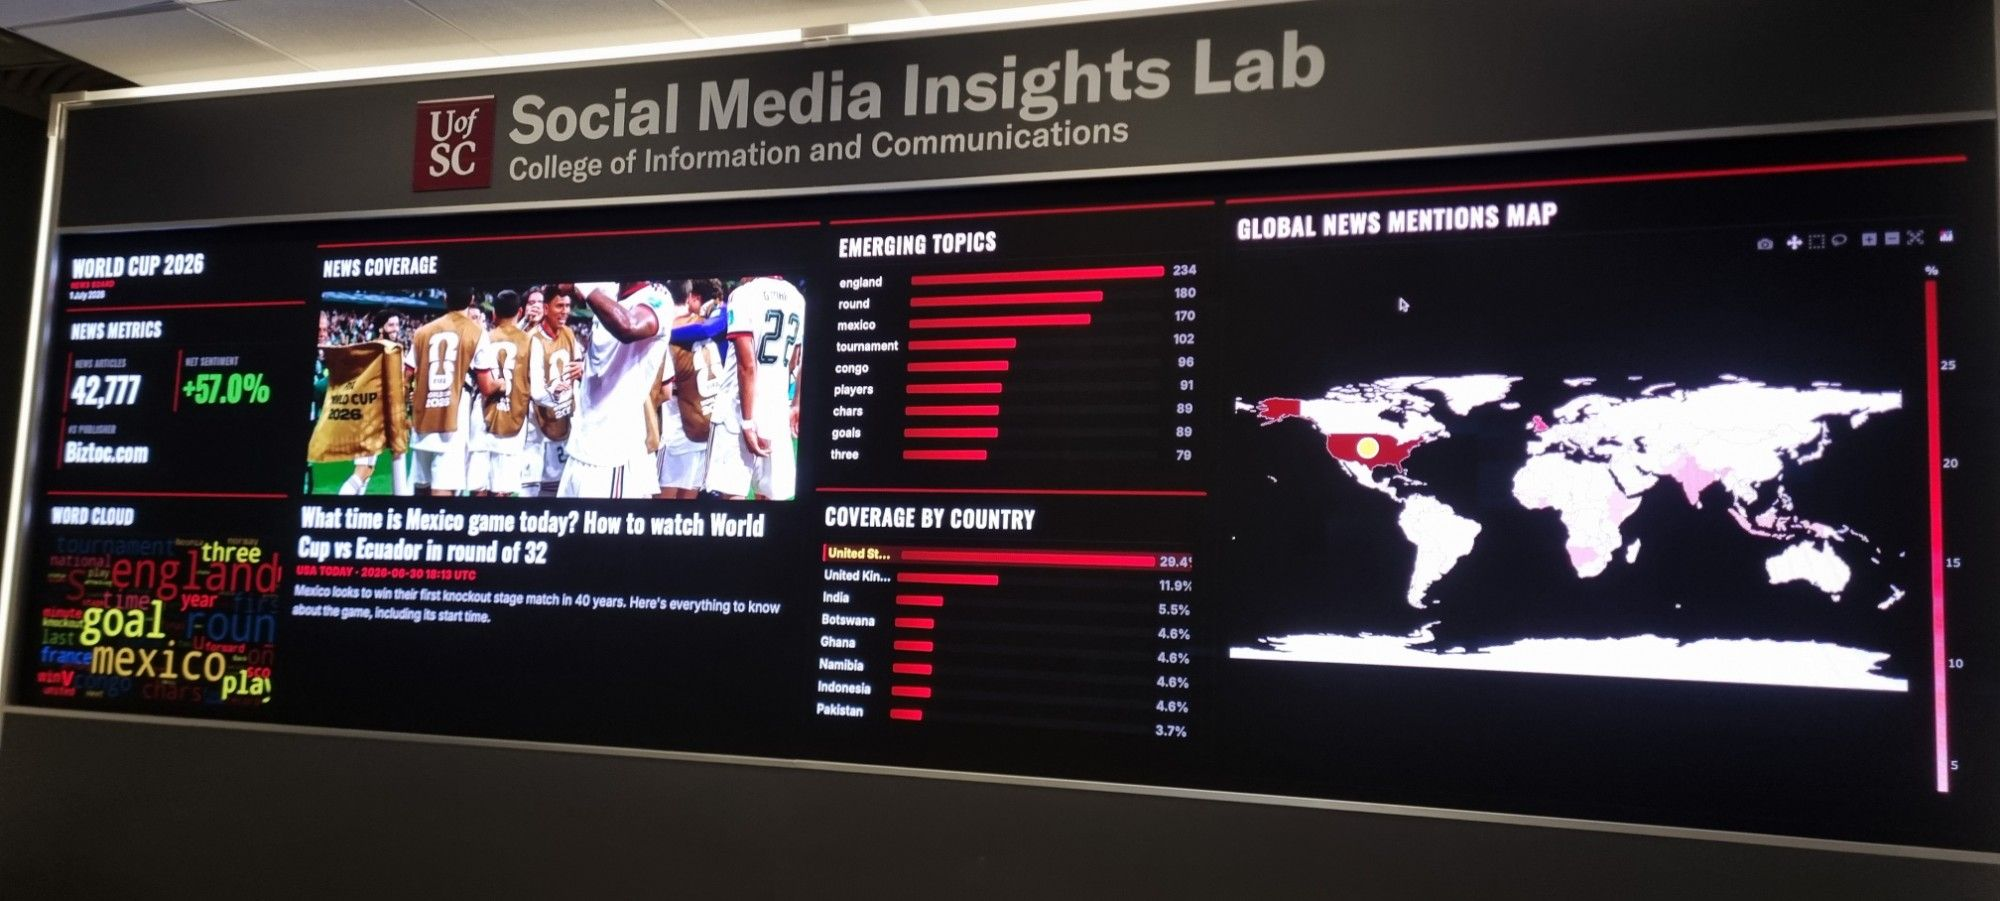
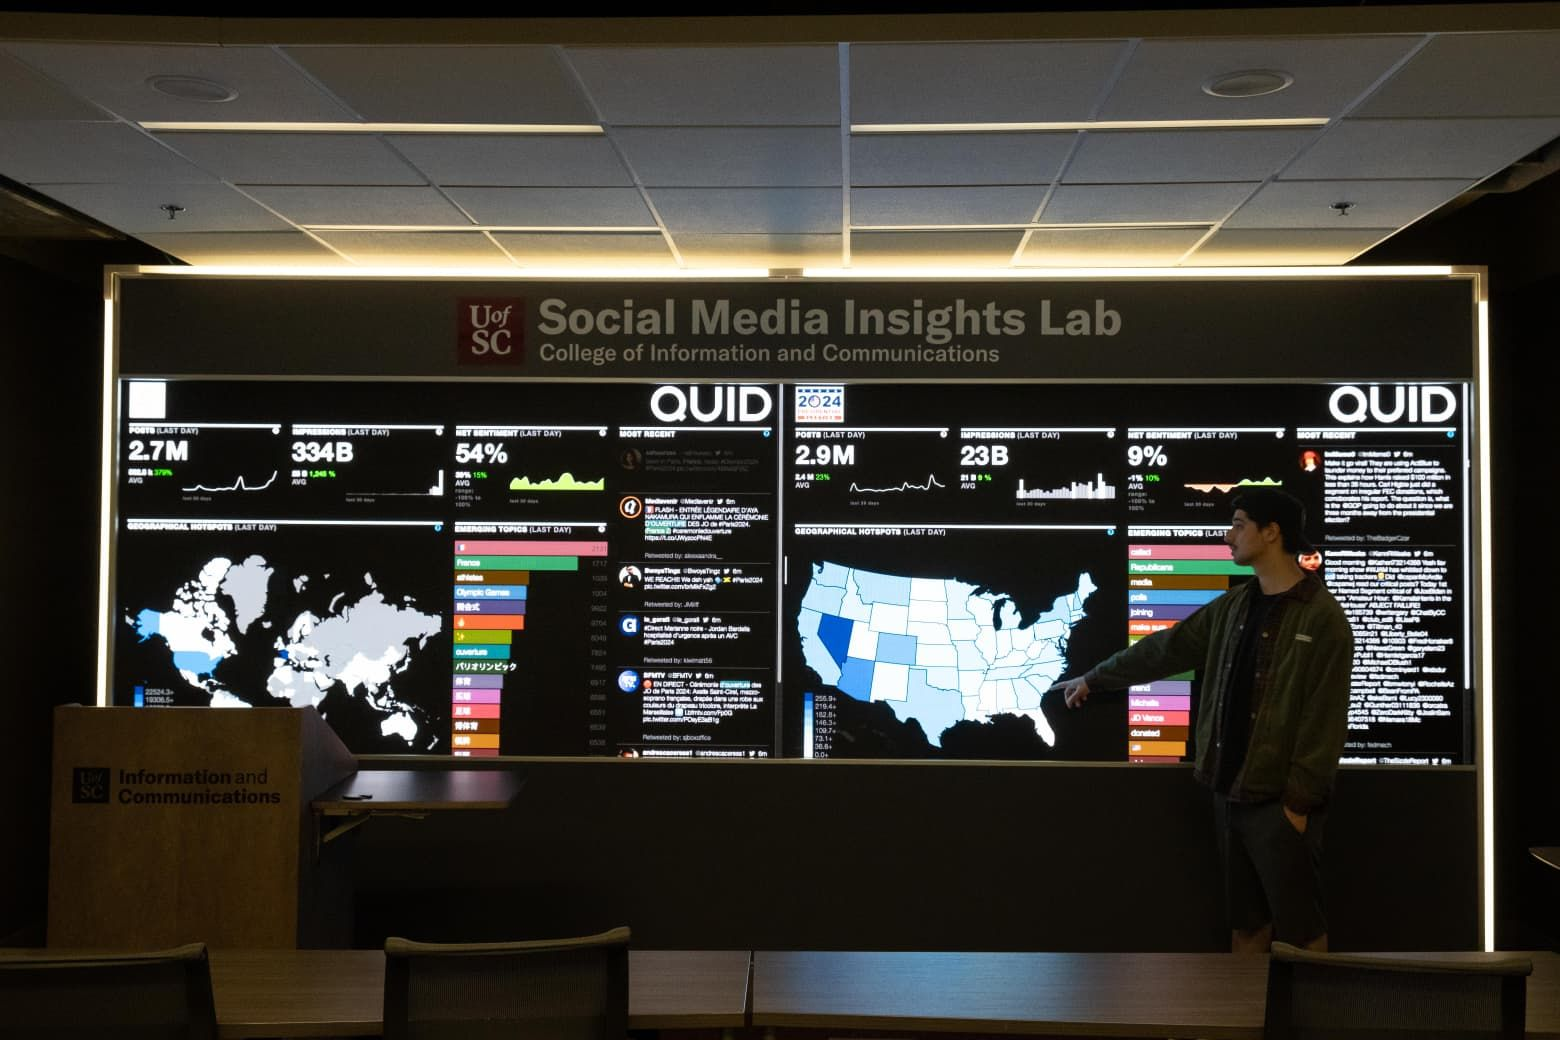
Use new lab photo for portfolio hero (#113)
Claude-Session: https://claude.ai/code/session_013VAV6vKtAimqnqPLDF3tDQ

diff --git a/portfolio.html b/portfolio.html
@@ -22,7 +22,7 @@
   <link href="https://fonts.googleapis.com/css2?family=DM+Serif+Display:ital@0;1&family=Inter:wght@300;400;500;600&display=swap" rel="stylesheet">
   <link rel="stylesheet" href="style.css">
   <style>
-    .portfolio-hero{min-height:100vh;display:flex;flex-direction:column;justify-content:flex-end;position:relative;padding:0 3rem;background:url('portfolio/hero.webp') center/cover no-repeat;background-image:image-set(url('portfolio/hero.webp') type('image/webp'), url('portfolio/hero.jpg') type('image/jpeg'))}
+    .portfolio-hero{min-height:100vh;display:flex;flex-direction:column;justify-content:flex-end;position:relative;padding:0 3rem;background:url('portfolio/hero.webp') center 60%/cover no-repeat;background-image:image-set(url('portfolio/hero.webp') type('image/webp'), url('portfolio/hero.jpg') type('image/jpeg'))}
     .portfolio-hero::before{content:'';position:absolute;inset:0;background:linear-gradient(to right,rgba(0,0,0,.8) 0%,rgba(0,0,0,.45) 50%,rgba(0,0,0,.15) 100%),linear-gradient(to top,rgba(0,0,0,.75) 0%,transparent 60%),linear-gradient(to bottom,rgba(0,0,0,.45) 0%,transparent 30%)}
     .portfolio-hero .hero-content{position:relative;z-index:1;max-width:1400px;margin:0 auto;width:100%;padding:0 0 5rem;display:block}
     .portfolio-hero .hero-text{max-width:620px;padding-right:0}
